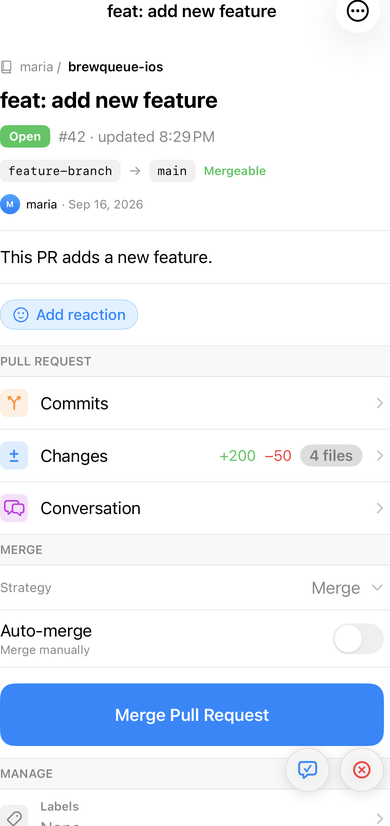
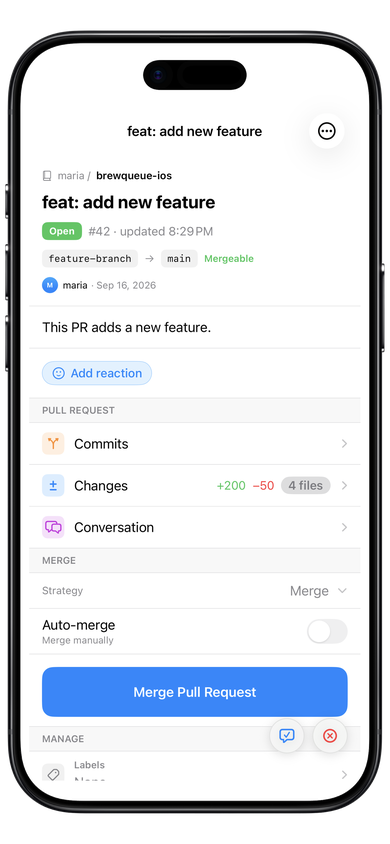
fix: compose showcase and hero shots with device frames (transparent)
Match the main hero look: raw GitBobaApp screenshots composited into
Apple frames with alpha outside the phone, not flat UI crops or white mats.

Changed region(s): [[0.0, 0.0, 1.0, 1.0], [0.8, 0.1211, 0.8615, 0.1816], [0.0308, 0.9685, 0.0615, 1.0]]

diff --git a/css/home.css b/css/home.css
@@ -353,9 +353,7 @@
     .showcase-card img {
       width: min(220px, 72vw);
       height: auto;
-      border-radius: 22px;
-      border: 1px solid var(--border);
-      box-shadow: 0 32px 64px oklch(0 0 0 / 0.45);
+      filter: drop-shadow(0 32px 64px oklch(0 0 0 / 0.55));
       background: transparent;
       vertical-align: middle;
     }

diff --git a/index.html b/index.html
@@ -140,8 +140,8 @@
         src="images/screenshot-home.png"
         alt="GitBoba Home Screen showing repos, pull requests and issues"
         class="hero-phone"
-        width="1242"
-        height="2688"
+        width="780"
+        height="1688"
         data-comment-anchor="c3cf3fcca3-img" style="opacity: 1">
     </div>
   </section>

diff --git a/scripts/compose_site_screenshots.py b/scripts/compose_site_screenshots.py
@@ -1,0 +1,82 @@
+#!/usr/bin/env python3
+"""Build gitboba.app phone mockups: raw UI + device frame, transparent outside."""
+
+from __future__ import annotations
+
+import importlib.util
+import os
+import sys
+from pathlib import Path
+
+try:
+    from PIL import Image
+except ImportError:
+    print("Install Pillow first.", file=sys.stderr)
+    sys.exit(1)
+
+ROOT = Path(__file__).resolve().parents[1]
+APP_REPO = Path(os.environ.get("GITBOBA_APP_REPO", Path.home() / "development/GitBobaApp"))
+BEZELS = APP_REPO / "scripts" / "add_bezels.py"
+RAW_DIR = APP_REPO / "screenshots"
+FRAMES = APP_REPO / "marketing" / "frames"
+OUT = ROOT / "images"
+PHONE = "1242x2688"
+
+EXPORTS: list[tuple[str, str, int]] = [
+    ("home", "screenshot-home", 780),
+    ("home", "screenshot-home-docs", 390),
+    ("pr-detail", "screenshot-pull-request", 390),
+    ("actions", "screenshot-actions", 390),
+    ("notifications", "screenshot-notifications", 390),
+]
+
+
+def _load_compose():
+    spec = importlib.util.spec_from_file_location("add_bezels", BEZELS)
+    if spec is None or spec.loader is None:
+        raise RuntimeError(f"Cannot load {BEZELS}")
+    mod = importlib.util.module_from_spec(spec)
+    spec.loader.exec_module(mod)
+    return mod.compose_device_rgba, mod._pick_frame
+
+
+def compose_one(raw_path: Path, width: int) -> Image.Image:
+    compose_device_rgba, pick_frame = _load_compose()
+    shot = Image.open(raw_path).convert("RGBA")
+    frame_path = pick_frame(FRAMES, shot.size, color_hint=None)
+    if frame_path is None:
+        raise RuntimeError(f"No device frame in {FRAMES} for {raw_path.name}")
+    frame = Image.open(frame_path).convert("RGBA")
+    canvas = compose_device_rgba(shot, frame)
+    if canvas is None:
+        raise RuntimeError(f"compose_device_rgba failed for {raw_path.name}")
+    w, h = canvas.size
+    out_h = round(h * width / w)
+    return canvas.resize((width, out_h), Image.Resampling.LANCZOS)
+
+
+def main() -> int:
+    if not RAW_DIR.is_dir():
+        print(f"Missing {RAW_DIR} — run take_screenshots.sh in GitBobaApp.", file=sys.stderr)
+        return 1
+    if not FRAMES.is_dir():
+        print(f"Missing {FRAMES} — extract Apple bezels in GitBobaApp.", file=sys.stderr)
+        return 1
+
+    OUT.mkdir(parents=True, exist_ok=True)
+    for raw_name, out_name, width in EXPORTS:
+        raw = RAW_DIR / f"{raw_name}-{PHONE}.png"
+        if not raw.is_file():
+            print(f"Missing {raw}", file=sys.stderr)
+            return 1
+        img = compose_one(raw, width)
+        dest = OUT / f"{out_name}.png"
+        img.save(dest, "PNG", optimize=True)
+        print(f"  {dest.name} ({img.size[0]}×{img.size[1]}, RGBA)")
+
+    print("Done — device frames, transparent outside phone (matches hero style).")
+    return 0
+
+
+if __name__ == "__main__":
+    raise SystemExit(main())

diff --git a/scripts/generate-og-share.py b/scripts/generate-og-share.py
@@ -14,7 +14,7 @@ except ImportError:
 
 ROOT = os.path.dirname(os.path.dirname(os.path.abspath(__file__)))
 APP_REPO = os.environ.get("GITBOBA_APP_REPO", os.path.expanduser("~/development/GitBobaApp"))
-PHONE_SHOT = os.path.join(APP_REPO, "screenshots", "home-1242x2688.png")
+PHONE_SHOT = os.path.join(ROOT, "images", "screenshot-home.png")
 OUT = os.path.join(ROOT, "images", "og-share.png")
 
 W, H = 1200, 630
